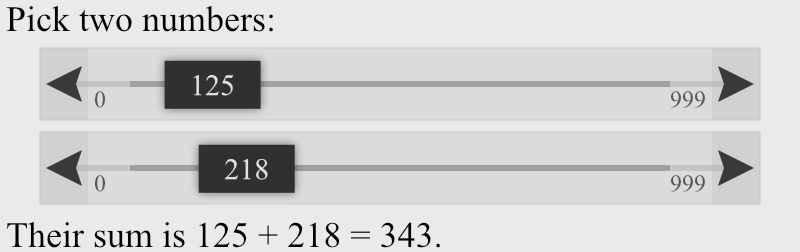
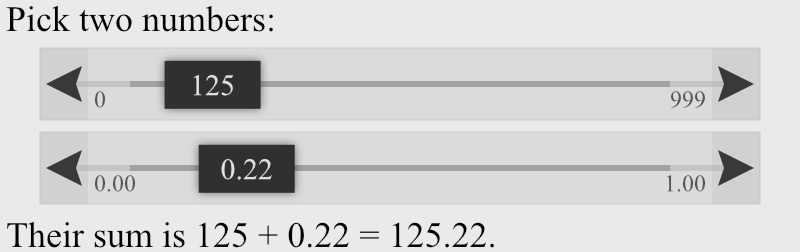
Layout documentation nearly complete.
Remaining: HTML contrasts and simple images.

diff --git a/Documentation/1 Layout/_Layout.md b/Documentation/1 Layout/_Layout.md
@@ -373,7 +373,7 @@ Text inputs can be in the form of lines or blocks.
 
 ![](text-forms.png)
 
-#### Integer
+#### Numbers
 
 Here’s an example that combines user input with code insertion.
 
@@ -382,8 +382,8 @@ Here’s an example that combines user input with code insertion.
     Pick two numbers:
 </p>
     
-<in [int(0:999)] @x>
-<in [int(0:999)] @y>
+<in [0:999] @x>
+<in [0.00:1.00] @y>
     
 <p/>
 	Their sum is @x + @y = {@x + @y}. 
@@ -392,7 +392,7 @@ Here’s an example that combines user input with code insertion.
 
 ![](in-inline-code.png)
 
-This above element is a **slider** and it has the tag `<Slider [int](0:999)>`.
+This above element is a **slider**. The `in` tag can be substituted with `Slider`. 
 
 Features:
 
@@ -406,10 +406,6 @@ Features:
 This substitutes combo boxes and sliders for a single element. The purpose for this being that the above slider is now device-independent in its behaviour.
 
 > Combo boxes have been removed. They are generally specific to large devices. Device-specific controls have been removed. The gauge has been designed to be device-independent.
-
-#### Floats
-
-
 
 ### Breaks
 
@@ -523,7 +519,7 @@ Code can generally be inserted anywhere with `{ }`. For this, you’ll need to g
 
 ```html
 <body/>
-    
+    2 ^ 4 is {2 ^ 4}.
 </body>
 ```
 
@@ -568,7 +564,7 @@ For another example, a **menu** is a list of buttons that link to a different pa
 </drop menu>
 ```
 
-Rules for control fusion: Similar to inheriting both classes at the same time. 
+Rules for control fusion: Similar to inheriting both classes at the same time.
 
 
 
@@ -601,16 +597,18 @@ To access these, we have a keyword identifier `|`.
 To make changes in the position or dimensions, for example, we insert the `|facet` as follows:
 
 ```html
-<button |facet {pos.x: {pos.x+1}px;}/>
+<button |facet {pos: {pos+(20,20)px};}/>
     Click me!
 </button>
 ```
 
+![](inline-design.png)
 
+The above demonstrates how the code changes the button’s position.
 
 Introduction to inline designing is a good place to end this.
 
-
+------
 
 ## HTML Contrasts
 
